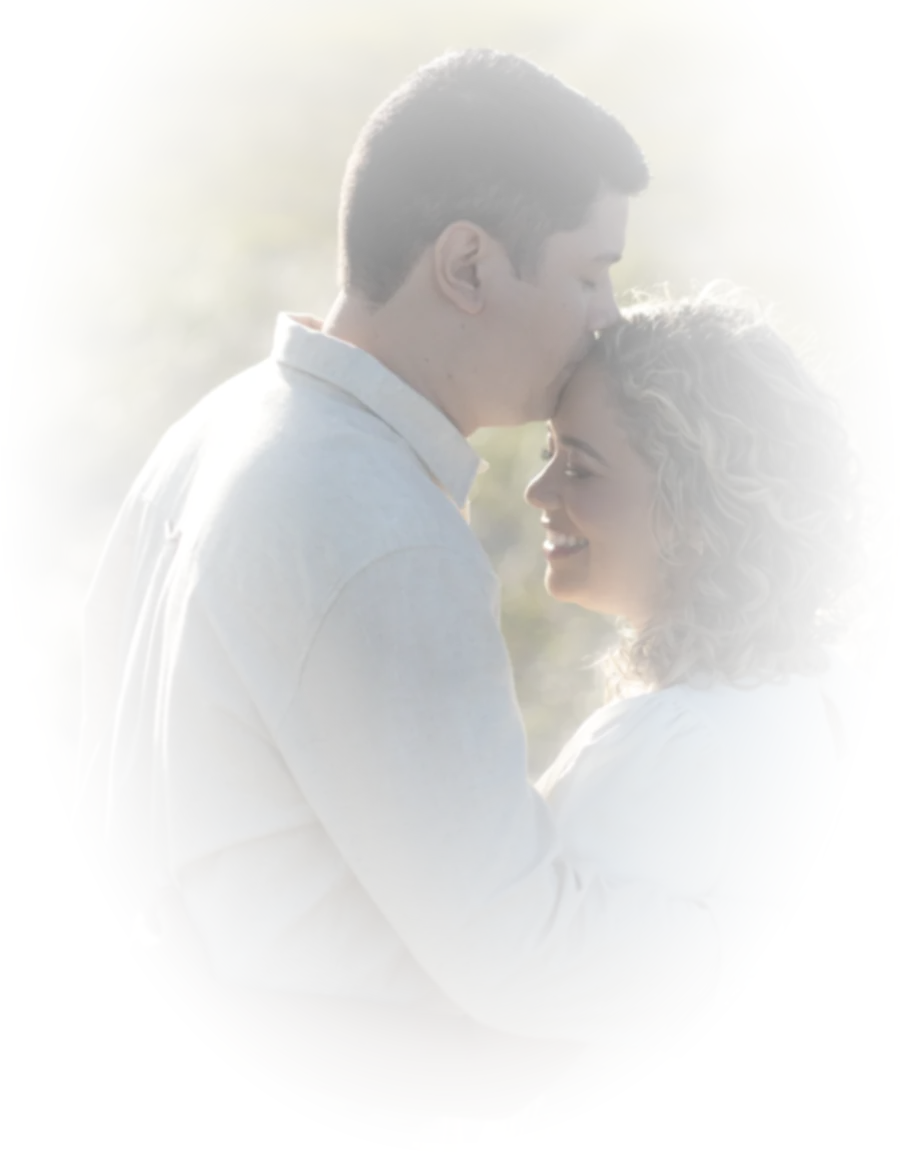
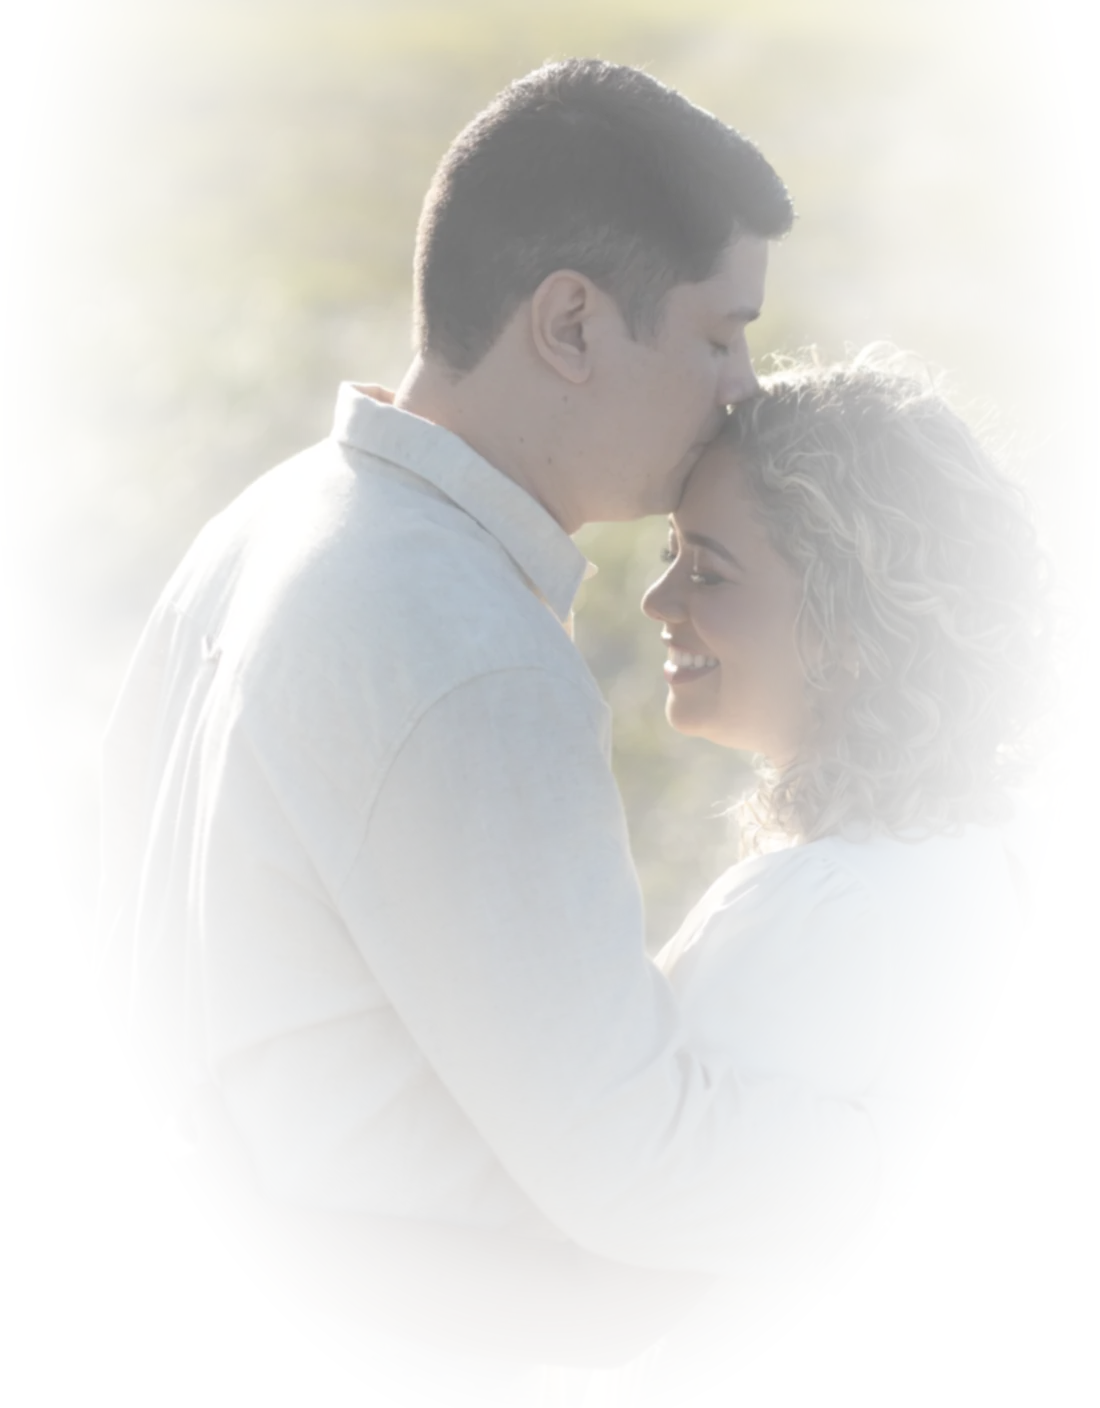
Aumenta a foto de fundo do hero para preencher o espaço entre as rosas
A foto do casal passa a ocupar toda a largura entre as duas molduras
florais, encostando no topo (embaixo da barra de navegação), em vez de
ficar centralizada como um medalhão pequeno.

Changed region(s): [[0.2178, 0.0, 0.7778, 0.3125]]

diff --git a/assets/css/style.css b/assets/css/style.css
@@ -124,10 +124,10 @@ img { max-width: 100%; display: block; }
 
 .hero-photo {
   position: absolute;
-  top: 50%;
+  top: 0;
   left: 50%;
-  transform: translate(-50%, -47%);
-  width: clamp(260px, 34vw, 460px);
+  transform: translateX(-50%);
+  width: clamp(380px, 47vw, 660px);
   height: auto;
   z-index: 0;
   pointer-events: none;
@@ -523,6 +523,7 @@ img { max-width: 100%; display: block; }
   .nav-links.open { transform: translateY(0); opacity: 1; }
   .nav-toggle { display: flex; }
   .hero-deco { width: clamp(150px, 45vw, 240px); opacity: 0.8; }
+  .hero-photo { width: 92vw; }
   .heart-divider span { width: 26px; }
   .countdown { gap: 0.6rem; }
   .countdown-item { min-width: 58px; padding: 0.6rem 0.4rem; }
